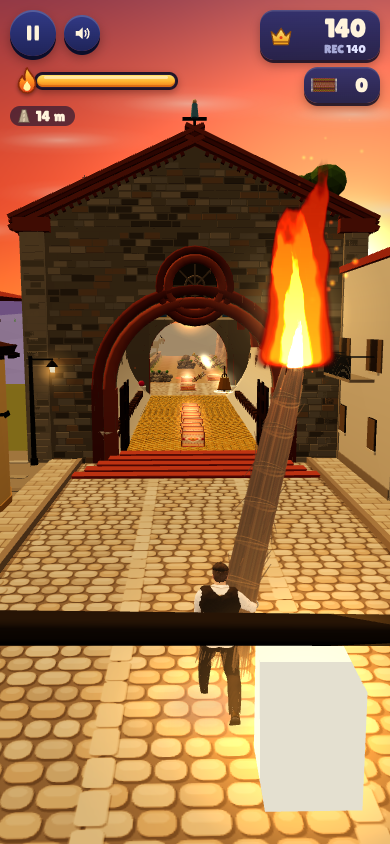
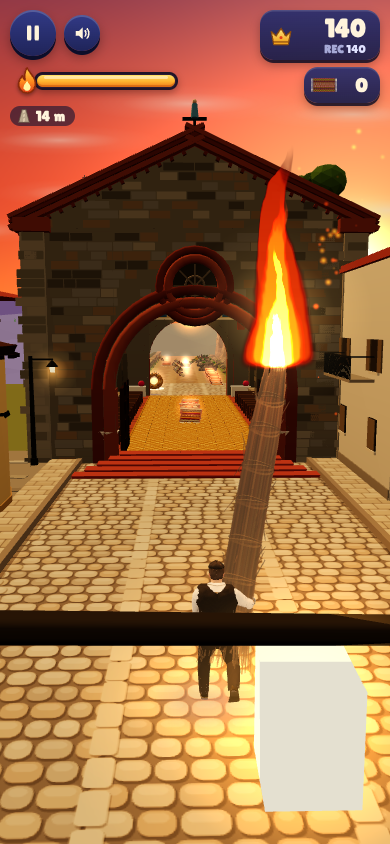
v5s25: Santa Marta volta bianca, pietra interna, confronto

diff --git a/src/game/biomes/builders/santamarta.js b/src/game/biomes/builders/santamarta.js
@@ -11,29 +11,29 @@ import { Kit, G } from '../../kit.js';
 import { SANTAMARTA } from '../../../config.js';
 
 const C = { schist: '#7d7a72', schistL: '#9a978e', schistD: '#5f5d58', schistB: '#8f7a62', brick: '#985238', brickD: '#7a3f2c',
-  stone: '#827d72', stoneL: '#a09a8c', plaster: '#ece6da', floor: '#b5603f', floorL: '#c8724c', runner: '#e8b52c', runnerD: '#c28d18',
+  stone: '#5e5a52', stoneL: '#736c60', plaster: '#ece6da', floor: '#b5603f', floorL: '#c8724c', runner: '#e8b52c', runnerD: '#c28d18',
   pew: '#7a5434', pewD: '#5a3a22', door: '#3a2618', doorD: '#2a1a10', step: '#a8442e', stepT: '#bf5a3e', marble: '#f2eee6', gold: '#d8b050' };
 const tor = (r, t, rs, ts, arc = Math.PI * 2) => new THREE.TorusGeometry(r, t, rs, ts, arc);
 export const SM = { HW: 7.2, H: 11, RIDGE: 14.6, STEPS: 5, WALL: 0.8 };
 
 // pezzi di pietra irregolari su una parete piana (normale +z o -z) nel rettangolo [x0,x1]x[y0,y1]
 function stones(k, x0, x1, y0, y1, z, dir, pal, hole) {
-  for (let y = y0 + 0.12; y < y1 - 0.1; y += 0.32) {
+  for (let y = y0 + 0.12; y < y1 - 0.1; y += 0.42) {
     let x = x0 + k.r() * 0.4;
     while (x < x1 - 0.2) {
-      const w = 0.35 + k.r() * 0.75; const cx = Math.min(x + w / 2, x1 - w / 2);
-      if (!hole || !hole(cx, y)) k.add(G.box(w - 0.05, 0.24 + k.r() * 0.06, 0.06), pal[Math.floor(k.r() * pal.length)], { x: cx, y, z: z + dir * 0.03 });
+      const w = 0.55 + k.r() * 0.9; const cx = Math.min(x + w / 2, x1 - w / 2);
+      if (!hole || !hole(cx, y)) k.add(new THREE.PlaneGeometry(w - 0.05, 0.34 + k.r() * 0.06), pal[Math.floor(k.r() * pal.length)], { x: cx, y, z: z + dir * 0.03, ry: dir > 0 ? 0 : Math.PI });
       x += w;
     }
   }
 }
 // stesse pietre su una parete laterale (normale +x o -x)
 function stonesX(k, z0, z1, y0, y1, x, dir, pal, hole) {
-  for (let y = y0 + 0.12; y < y1 - 0.1; y += 0.34) {
+  for (let y = y0 + 0.12; y < y1 - 0.1; y += 0.5) {
     let z = z0 + k.r() * 0.4;
     while (z < z1 - 0.2) {
-      const w = 0.35 + k.r() * 0.8; const cz = Math.min(z + w / 2, z1 - w / 2);
-      if (!hole || !hole(cz, y)) k.add(G.box(0.06, 0.26, w - 0.05), pal[Math.floor(k.r() * pal.length)], { x: x + dir * 0.03, y, z: cz });
+      const w = 0.7 + k.r() * 1.1; const cz = Math.min(z + w / 2, z1 - w / 2);
+      if (!hole || !hole(cz, y)) k.add(new THREE.PlaneGeometry(w - 0.06, 0.42), pal[Math.floor(k.r() * pal.length)], { x: x + dir * 0.03, y, z: cz, ry: dir * Math.PI / 2 });
       z += w;
     }
   }
@@ -43,7 +43,7 @@ export function buildSantaMarta(seed = 1) {
   const L = SANTAMARTA.LEN_M, { HW, H, RIDGE, WALL } = SM, k = new Kit(500 + seed);
   const zc = -L / 2, OW = HW + WALL, zb = -L;
   const facePal = [C.schist, C.schistL, C.schistD, C.schistB, C.schist, '#8a8a88'];
-  const inPal = [C.stone, C.stoneL, '#6e6a62', '#8e7c66', C.stone];
+  const inPal = [C.stone, C.stoneL, '#4e4b46', '#6e5e4c', C.stone];
   const sl = Math.atan2(RIDGE - H, OW), len = Math.hypot(RIDGE - H, OW);
 
   // ---- 5 gradini rossi che si allargano verso il basso; vasi bianchi sull'ultimo
@@ -64,8 +64,8 @@ export function buildSantaMarta(seed = 1) {
   for (let x = -HW + 0.5; x < HW; x += 1.0) k.add(G.box(0.04, 0.085, L), '#8a4a34', { x, y: 0.045, z: zc });
   k.add(G.box(7.6, 0.1, L - 0.6), C.runnerD, { y: 0.06, z: zc });
   // treccia: file di "chicchi" allungati sfalsati (come la passatoia della foto)
-  for (let z = -0.5, r = 0; z > -L + 0.5; z -= 0.3, r++) for (let x = -3.55 + (r % 2) * 0.22; x <= 3.6; x += 0.44)
-    k.add(G.sph(0.22, 5, 3), (r + Math.round(x * 2)) % 3 ? C.runner : '#f2c84a', { x, y: 0.11, z, sy: 0.2, sz: 0.6, ry: (r % 2 ? 0.55 : -0.55), vary: 0.1 });
+  for (let z = -0.5, r = 0; z > -L + 0.5; z -= 0.36, r++) for (let x = -3.5 + (r % 2) * 0.25; x <= 3.6; x += 0.5)
+    k.add(new THREE.PlaneGeometry(0.26, 0.5), (r + Math.round(x * 2)) % 3 ? C.runner : '#f2c84a', { x, y: 0.12, z, rx: -Math.PI / 2, sy: 0.6, rz: (r % 2 ? 0.55 : -0.55), vary: 0.1 });
 
   // ---- muri esterni delle navatelle (pietra) con nicchie bianche e quadri della Via Crucis
   for (const s of [-1, 1]) {
@@ -103,16 +103,15 @@ export function buildSantaMarta(seed = 1) {
   for (let i = 1; i < 5; i++) { const z = -i * bay;
     k.add(tor(PX - 0.5, 0.42, 6, 18, Math.PI), C.brick, { y: H - PX + 0.2, z, vary: 0.04, sz: 1.4 });
     k.add(tor(PX - 0.05, 0.12, 4, 18, Math.PI), C.brickD, { y: H - PX + 0.2, z }); }
-  { const v = new THREE.CylinderGeometry(PX - 0.3, PX - 0.3, L, 18, 1, true, -Math.PI / 2, Math.PI), ix = v.index.array, n = v.attributes.normal.array;
+  { const v = new THREE.CylinderGeometry(PX - 0.3, PX - 0.3, L, 18, 1, true, Math.PI / 2, Math.PI), ix = v.index.array, n = v.attributes.normal.array;
     for (let j = 0; j < ix.length; j += 3) { const t = ix[j]; ix[j] = ix[j + 2]; ix[j + 2] = t; } for (let j = 0; j < n.length; j++) n[j] = -n[j];
     k.add(v, C.plaster, { y: H - PX + 0.2, z: zc, rx: Math.PI / 2 }); }
   k.add(G.box(OW * 2, 0.3, L), '#6a5a4a', { y: H + 0.15, z: zc });
   // ---- banchi di legno ai lati della passatoia
-  for (let z = -2.6; z > -L + 5; z -= 1.3) for (const s of [-1, 1]) {
+  for (let z = -2.6; z > -L + 5; z -= 1.45) for (const s of [-1, 1]) {
     const x = s * 4.95;
     k.add(G.box(1.7, 0.08, 0.42), C.pew, { x, y: 0.48, z, vary: 0.05 });
     k.add(G.box(1.7, 0.4, 0.07), C.pew, { x, y: 0.82, z: z - 0.22, vary: 0.05 });
-    k.add(G.box(1.7, 0.12, 0.08), C.pewD, { x, y: 0.95, z: z + 0.3 });
     for (const dx of [-0.82, 0.82]) k.add(G.box(0.08, 1.0, 0.6), C.pewD, { x: x + dx, y: 0.5, z });
   }
   // ---- lampadari in ottone con candele accese
@@ -141,7 +140,7 @@ export function buildSantaMarta(seed = 1) {
       k.add(G.box(len + 0.9, 0.22, 0.5), C.brick, { x: cx, y: cy + 0.15, z: zf + dir * 0.2, rz: -s * sl });
       k.add(G.box(len + 0.9, 0.14, 0.45), C.brickD, { x: cx, y: cy + 0.42, z: zf + dir * 0.15, rz: -s * sl });
       k.add(G.box(len + 0.9, 0.18, 0.6), C.brick, { x: cx, y: cy + 0.62, z: zf + dir * 0.22, rz: -s * sl });
-      for (let t = 0.03; t < 0.97; t += 0.045) { const px = s * OW * (1 - t), py = H + (RIDGE - H) * t;
+      for (let t = 0.03; t < 0.97; t += 0.07) { const px = s * OW * (1 - t), py = H + (RIDGE - H) * t;
         k.add(G.box(0.16, 0.16, 0.3), C.brickD, { x: px, y: py - 0.12, z: zf + dir * 0.12, rz: -s * sl }); }
       // risvolto orizzontale della cornice agli spigoli + lesene
       k.add(G.box(1.6, 0.6, 0.7), C.brick, { x: s * (OW - 0.6), y: H + 0.1, z: zf + dir * 0.2 });
@@ -149,8 +148,8 @@ export function buildSantaMarta(seed = 1) {
     }
     // pietre a vista
     stones(k, -OW + 1.1, OW - 1.1, 0, H, zf, dir, facePal, inDoor);
-    for (let y = H + 0.2; y < RIDGE - 0.6; y += 0.32) { const hw = OW * (1 - (y - H) / (RIDGE - H)) - 0.5;
-      for (let x = -hw; x < hw - 0.2;) { const w = 0.35 + k.r() * 0.7; k.add(G.box(w - 0.05, 0.25, 0.06), facePal[Math.floor(k.r() * facePal.length)], { x: x + w / 2, y, z: zf + dir * 0.03 }); x += w; } }
+    for (let y = H + 0.2; y < RIDGE - 0.6; y += 0.42) { const hw = OW * (1 - (y - H) / (RIDGE - H)) - 0.5;
+      for (let x = -hw; x < hw - 0.2;) { const w = 0.55 + k.r() * 0.9; k.add(new THREE.PlaneGeometry(w - 0.05, 0.34), facePal[Math.floor(k.r() * facePal.length)], { x: x + w / 2, y, z: zf + dir * 0.03, ry: dir > 0 ? 0 : Math.PI }); x += w; } }
     for (const s of [-1, 1]) { stones(k, s > 0 ? OW - 1.1 : -OW, s > 0 ? OW : -OW + 1.1, 0, H, zf + dir * 0.22, dir, [C.schistL, C.schist, '#9a968c']); }
     // portale: doppia ghiera di mattoni sull'arco e sugli stipiti
     k.add(tor(DR + 0.25, 0.32, 5, 20, Math.PI), C.brick, { y: DOOR_H - DR, z: zf + dir * 0.05 });
@@ -188,7 +187,6 @@ export function buildSantaMarta(seed = 1) {
         k.add(G.box(1.8, 1.0, 0.8), C.marble, { x: s * 5.0, y: 0.5, z: zb + 0.9 });
         k.add(G.box(1.9, 0.08, 0.9), '#ffffff', { x: s * 5.0, y: 1.04, z: zb + 0.9 });
         k.add(G.sph(0.3, 8, 6), '#d84a5a', { x: s * 5.0 + 0.5, y: 1.3, z: zb + 0.9 });
-        k.add(G.cyl(0.04, 0.04, 0.6, 6), C.gold, { x: s * 5.0 - 0.5, y: 1.35, z: zb + 0.9 });
       }
     }
   }
